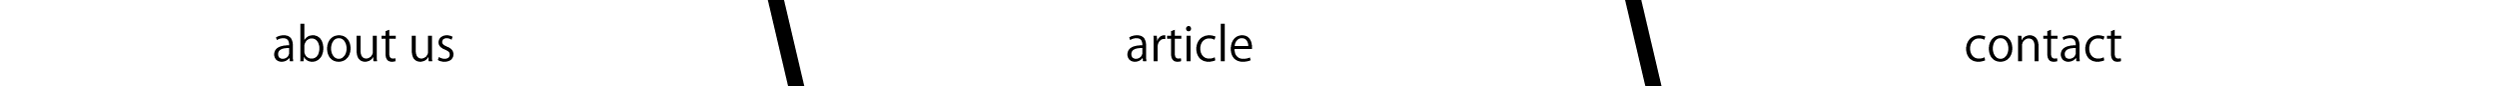
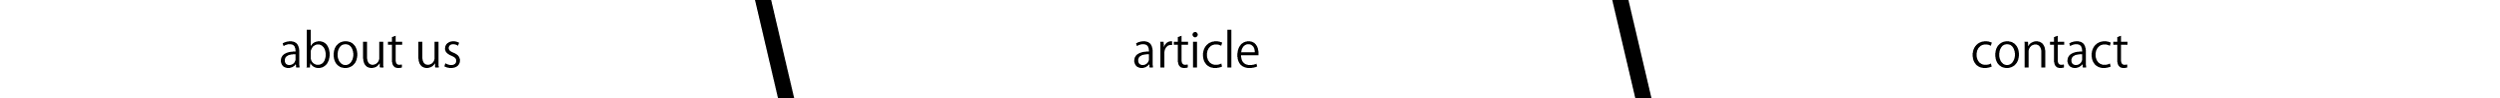
nav調整
ナビゲーション調整

diff --git a/style.css b/style.css
@@ -106,7 +106,7 @@ figcaption p {
 
 #aboutus {
 	position: absolute;
-	width: 32.5%;
+	width: 31.6%;
 	top: 0;
 	left: 0;
 	opacity: 0;
@@ -119,9 +119,9 @@ figcaption p {
 
 #article {
 	position: absolute;
-	width: 38%;
+	width: 35.7%;
 	top: 0;
-	left: 28.5%;
+	left: 30.3%;
 	opacity: 0;
 	transition: 0.5s;
 }
@@ -132,7 +132,7 @@ figcaption p {
 
 #contact {
 	position: absolute;
-	width: 37%;
+	width: 35.5%;
 	top: 0;
 	right: 0;
 	opacity: 0;
